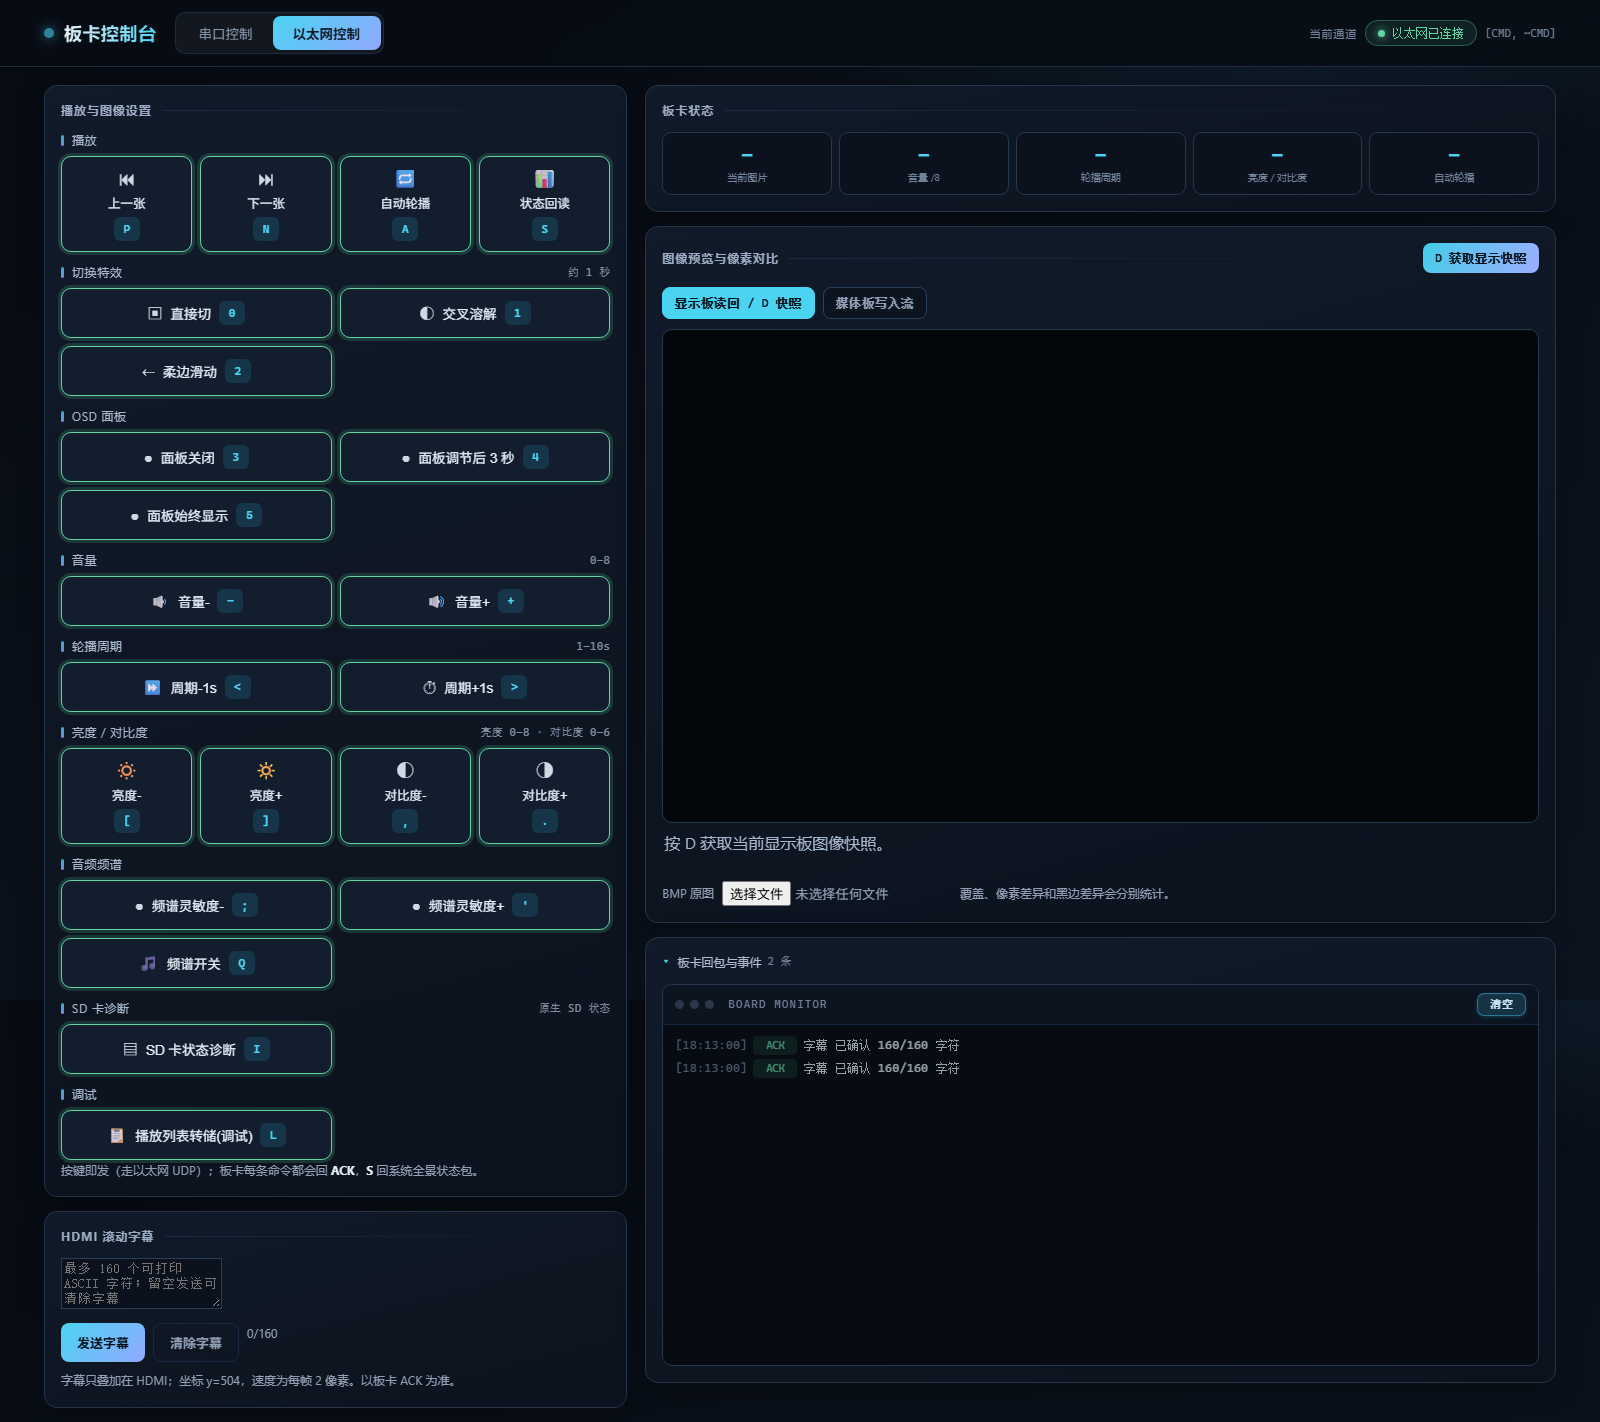
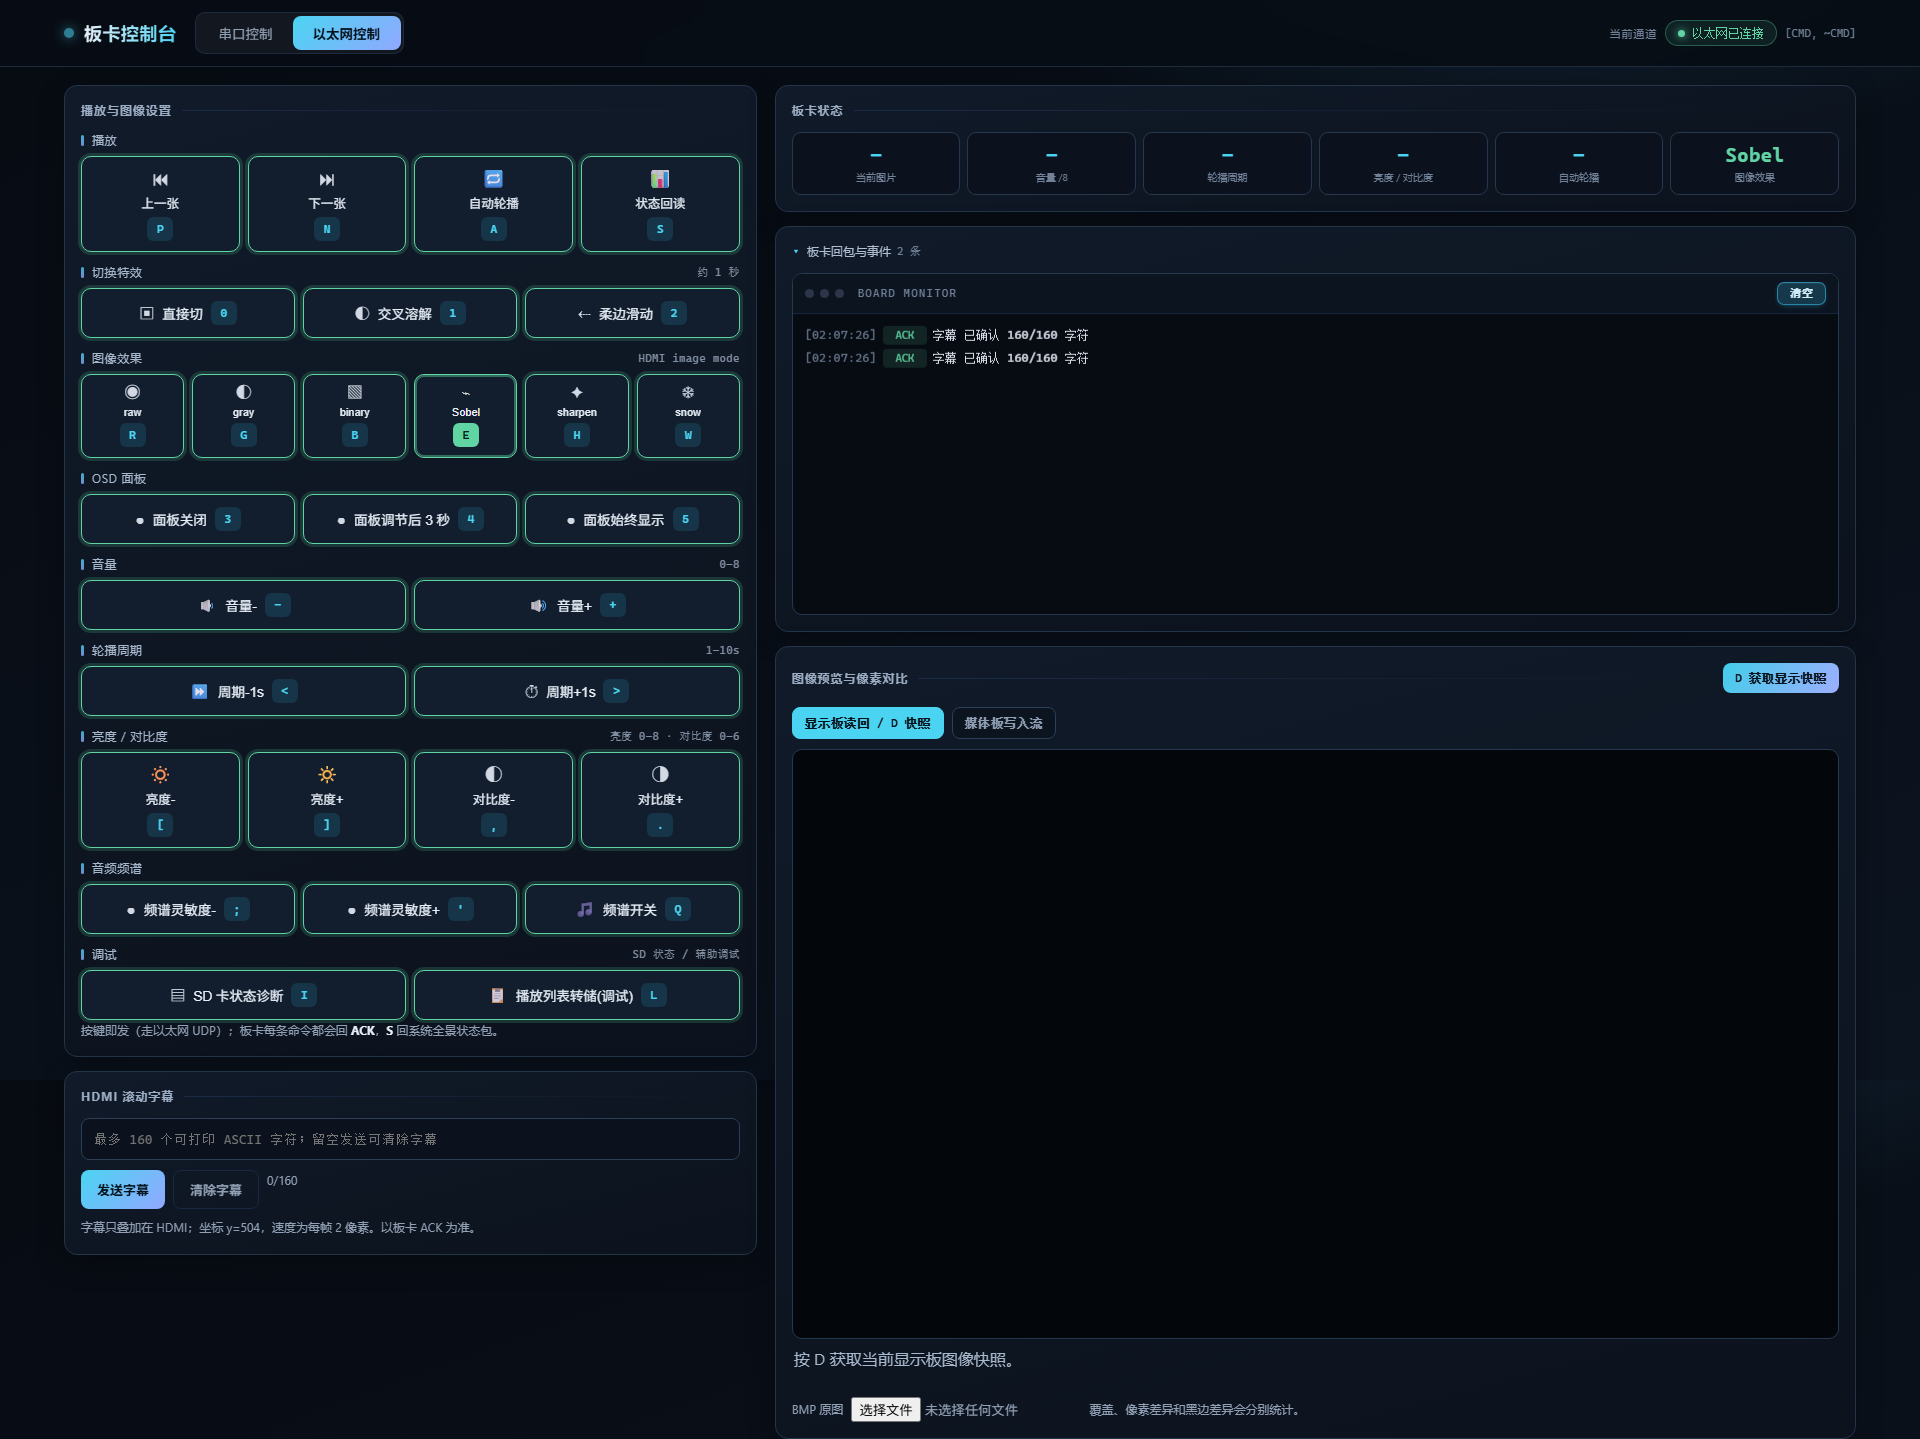
双板 V2 前端与 HC-08 命令文档
- 宽屏布局、调试分组与字幕输入优化
- 补充 HC-08 CMD/~CMD 控制字节表

diff --git a/scripts/web_console/templates/index.html b/scripts/web_console/templates/index.html
@@ -310,7 +310,7 @@
     --bg0:#070b12; --bg1:#0c1420; --panel:#101a28; --line:#24354a;
     --fg:#e7eef8; --dim:#91a0b4; --faint:#718198;
     --acc:#4bd4f2; --acc2:#91a8ff; --ok:#61d4a4; --err:#ff8585; --warn:#f4cc7a;
-    --mw:1560px;
+    --mw:1840px;
   }
   body { background:radial-gradient(1000px 500px at 80% -15%,#143044 0,transparent 65%),
          linear-gradient(160deg,var(--bg0),var(--bg1)); }
@@ -329,13 +329,23 @@
   .btns button { min-height:42px; background:#121e2d; border-color:#26384e; }
   .btns button:hover:not(:disabled) { background:#173044; }
   .btns.q4 button { min-height:68px; }
-  .metrics { gap:7px; }
+  .metrics { grid-template-columns:repeat(6,minmax(0,1fr)); gap:7px; }
+  .btns.q3 { grid-template-columns:repeat(3,minmax(0,1fr)); }
+  .btns.q6 { grid-template-columns:repeat(6,minmax(0,1fr)); }
+  .btns.q6 button { flex-direction:column; gap:5px; padding:10px 4px; min-height:68px; font-size:11px; }
+  .btns.q6 .ico { font-size:16px; }
   .m { background:#0b121d; border-color:#26384e; padding:10px 3px; }
   .m .v { font-size:20px; }
   .conn select,.conn input,textarea { background:#0b121d !important; border-color:#2b3e55 !important; }
+  #subtitleText {
+    display:block; width:100%; min-width:0; height:42px; margin:0;
+    padding:9px 12px; border:1px solid #2b3e55; border-radius:8px;
+    background:#0b121d; color:var(--fg); font:13px var(--mono);
+  }
+  #subtitleText:focus { outline:none; border-color:var(--acc); }
   .term { border-color:#26384e; background:#070b12; }
   .termbar { background:#0c1420; }
-  .log { height:min(38vh,340px); }
+  .log { height:min(30vh,300px); }
   details.card > summary { margin:0; padding:0; color:#afbdd0; }
   details.card[open] > summary { margin-bottom:14px; }
   details.card > summary::before { color:var(--acc); }
@@ -365,6 +375,15 @@
   @media (max-width:1050px) {
     main { grid-template-columns:minmax(290px,.9fr) minmax(0,1.1fr); padding:0 16px; gap:14px; }
   }
+  @media (max-width:1600px) {
+    .btns.q6 { grid-template-columns:repeat(3,minmax(0,1fr)); }
+  }
+  @media (max-width:1200px) {
+    .metrics { grid-template-columns:repeat(3,minmax(0,1fr)); }
+  }
+  @media (min-width:2200px) {
+    :root { --mw:2000px; }
+  }
   @media (max-width:800px) {
     main { width:100%; grid-template-columns:minmax(0,1fr); padding:0 12px; }
     .hwrap { padding:10px 12px; }
@@ -384,7 +403,7 @@
     .top-status { width:100%; }
     main > div,.card,.grp,.btns,.frame-wrap { min-width:0; width:100%; }
     .metrics { grid-template-columns:repeat(2,minmax(0,1fr)); }
-    .btns,.btns.q4 { width:100%; grid-template-columns:repeat(2,minmax(0,1fr)); }
+    .btns,.btns.q3,.btns.q4,.btns.q6 { width:100%; grid-template-columns:repeat(2,minmax(0,1fr)); }
     .btns button { min-width:0; white-space:normal; }
     .preview-tabs button { flex:1; min-width:0; white-space:normal; }
     .preview-head { align-items:flex-start; flex-wrap:wrap; }
@@ -425,8 +444,7 @@
 
     <section class="card" id="subtitleCard">
       <h2>HDMI 滚动字幕</h2>
-      <textarea id="subtitleText" maxlength="160" rows="3"
-        placeholder="最多 160 个可打印 ASCII 字符；留空发送可清除字幕"></textarea>
+      <input type="text" id="subtitleText" maxlength="160" autocomplete="off" spellcheck="false" placeholder="最多 160 个可打印 ASCII 字符；留空发送可清除字幕">
       <div class="conn" style="margin-top:10px">
         <button class="primary" id="btnSubtitle">发送字幕</button>
         <button class="ghost" id="btnSubtitleClear">清除字幕</button>
@@ -481,6 +499,20 @@
       </div>
     </section>
 
+
+    <details class="card log-card" id="logDetails" open>
+      <summary>板卡回包与事件 <span class="sub" id="cnt">0 条</span></summary>
+      <div class="term">
+        <div class="termbar">
+          <span class="d"></span><span class="d"></span><span class="d"></span>
+          <span class="t" id="logTitle">BOARD MONITOR</span>
+          <span class="spacer"></span>
+          <button id="btnClear" disabled>清空</button>
+        </div>
+        <div class="log" id="log"></div>
+      </div>
+    </details>
+
     <section class="card" id="frameCard">
       <div class="preview-head">
         <h2>图像预览与像素对比</h2>
@@ -509,18 +541,6 @@
       </div>
     </section>
 
-    <details class="card log-card" id="logDetails" open>
-      <summary>板卡回包与事件 <span class="sub" id="cnt">0 条</span></summary>
-      <div class="term">
-        <div class="termbar">
-          <span class="d"></span><span class="d"></span><span class="d"></span>
-          <span class="t" id="logTitle">BOARD MONITOR</span>
-          <span class="spacer"></span>
-          <button id="btnClear" disabled>清空</button>
-        </div>
-        <div class="log" id="log"></div>
-      </div>
-    </details>
   </div>
 </main>
 
@@ -542,8 +562,9 @@ const ICON = {n:"⏭", p:"⏮", a:"🔁", s:"📊", "+":"🔊", "-":"🔉",
               "q":"🎵", "i":"▤", "l":"📋", "0":"▣", "1":"◐", "2":"⇠"};
 Object.assign(ICON, {r:"\u25c9", g:"\u25d0", b:"\u25a7", e:"\u2301", h:"\u2726", w:"\u2744"});
 const RANGE = {"播放":"", "切换特效":"约 1 秒", "音量":"0–8", "轮播周期":"1–10s",
-               "亮度 / 对比度":"亮度 0–8 · 对比度 0–6", "SD 卡诊断":"原生 SD 状态"};
+               "亮度 / 对比度":"亮度 0–8 · 对比度 0–6"};
 RANGE["\u56fe\u50cf\u6548\u679c"] = "HDMI image mode";
+RANGE["\u8c03\u8bd5"] = "SD 状态 / 辅助调试";
 
 /* ---------- toast ---------- */
 let toastT = null;
@@ -640,17 +661,19 @@ async function buildPad(){
   d.groups.forEach(g => {
     const wrap = document.createElement("div");
     wrap.className = "grp";
-    const q4 = g.keys.length >= 4;
+    const q3 = g.keys.length === 3;
+    const q4 = g.keys.length >= 4 && g.keys.length < 6;
+    const q6 = g.keys.length >= 6;
     wrap.innerHTML = `<div class="grp-t"><span class="bar"></span>${g.name}`
       + `<span class="rg">${RANGE[g.name] || ""}</span></div>`;
     const box = document.createElement("div");
-    box.className = "btns" + (q4 ? " q4" : "");
+    box.className = "btns" + (q6 ? " q6" : q4 ? " q4" : q3 ? " q3" : "");
     g.keys.forEach(k => {
       const label = (d.keys.find(x => x.key === k) || {}).label || k;
       const b = document.createElement("button");
       b.dataset.k = k; b.disabled = !connected;
       b.title = label;
-      b.innerHTML = q4
+      b.innerHTML = (q4 || q6)
         ? `<span class="ico">${ICON[k] || "●"}</span><span>${label}</span><span class="key">${k.toUpperCase()}</span>`
         : `<span class="ico">${ICON[k] || "●"}</span><span>${label}</span><span class="key">${k.toUpperCase()}</span>`;
       b.onclick = () => sendKey(k);
@@ -671,13 +694,13 @@ function fallbackPad(){   // /api/keys 不可用时退化为静态面板
         <button data-k="s"><span class="ico">📊</span><span>状态回读</span><span class="key">S</span></button>
        </div></div>
      <div class="grp"><div class="grp-t"><span class="bar"></span>切换特效</div>
-       <div class="btns">
+       <div class="btns q3">
          <button data-k="0"><span class="ico">▣</span><span>直接切</span><span class="key">0</span></button>
          <button data-k="1"><span class="ico">◐</span><span>交叉溶解</span><span class="key">1</span></button>
          <button data-k="2"><span class="ico">⇠</span><span>柔边滑动</span><span class="key">2</span></button>
        </div></div>
      <div class="grp"><div class="grp-t"><span class="bar"></span>OSD 面板</div>
-      <div class="btns">
+      <div class="btns q3">
         <button data-k="3"><span class="ico">⊘</span><span>关闭</span><span class="key">3</span></button>
         <button data-k="4"><span class="ico">◷</span><span>显示 3 秒</span><span class="key">4</span></button>
         <button data-k="5"><span class="ico">▤</span><span>常显</span><span class="key">5</span></button>
@@ -700,18 +723,18 @@ function fallbackPad(){   // /api/keys 不可用时退化为静态面板
         <button data-k="."><span class="ico">◑</span><span>对比度 +</span><span class="key">.</span></button>
       </div></div>
     <div class="grp"><div class="grp-t"><span class="bar"></span>音频频谱<span class="rg">底部 16 柱</span></div>
-      <div class="btns">
+      <div class="btns q3">
         <button data-k="q"><span class="ico">🎵</span><span>频谱 开/关</span><span class="key">Q</span></button>
         <button data-k=";"><span class="ico">▼</span><span>灵敏度 -</span><span class="key">;</span></button>
         <button data-k="'"><span class="ico">▲</span><span>灵敏度 +</span><span class="key">'</span></button>
       </div></div>
-    <div class="grp"><div class="grp-t"><span class="bar"></span>SD 卡诊断</div>
+    <div class="grp"><div class="grp-t"><span class="bar"></span>调试</div>
       <div class="btns">
         <button data-k="i"><span class="ico">▤</span><span>查询卡状态</span><span class="key">I</span></button>
         <button data-k="l"><span class="ico">📋</span><span>列表转储</span><span class="key">L</span></button>
       </div></div>`;
   host.insertAdjacentHTML("beforeend", `<div class="grp"><div class="grp-t"><span class="bar"></span>CV image effect</div>
-    <div class="btns">
+    <div class="btns q6">
       <button data-k="r"><span class="ico">◉</span><span>Raw</span><span class="key">R</span></button>
       <button data-k="g"><span class="ico">◐</span><span>Gray</span><span class="key">G</span></button>
       <button data-k="b"><span class="ico">◧</span><span>Binary</span><span class="key">B</span></button>

diff --git a/scripts/web_console/app.py b/scripts/web_console/app.py
@@ -999,8 +999,7 @@ def api_keys():
               ("轮播周期", ["<", ">"]),
               ("亮度 / 对比度", ["[", "]", ",", "."]),
               ("音频频谱", [";", "'", "q"]),
-              ("SD 卡诊断", ["i"]),
-              ("调试", ["l"])]
+              ("调试", ["i", "l"])]
     groups.insert(2, ("\u56fe\u50cf\u6548\u679c", ["r", "g", "b", "e", "h", "w"]))
     return jsonify({"keys": [{"key": k, "label": HELP[k]} for k in order],
                     "groups": [{"name": n, "keys": ks} for n, ks in groups]})

diff --git a/scripts/web_console/test_console_protocol.py b/scripts/web_console/test_console_protocol.py
@@ -62,7 +62,7 @@ class ConsoleProtocolTests(unittest.TestCase):
         groups = {group["name"]: group["keys"] for group in result["groups"]}
         self.assertIn("d", keys)  # D is a dedicated button beside the preview.
         self.assertIn("图像效果", groups)
-        self.assertIn("i", groups["SD 卡诊断"])
+        self.assertEqual(set(groups["调试"]), {"i", "l"})
 
 
 if __name__ == "__main__":

diff --git a/docs/hc08_control_commands.md b/docs/hc08_control_commands.md
@@ -1,0 +1,77 @@
+# HC-08 / UART 命令字节表
+
+## 发送格式
+
+已连接的 HC-08 进入串口透传后，手机发出的数据会从 UART TXD 原样送到 FPGA RX。正式媒体固件不是收到一个字节就执行命令，而是等待两字节校验帧：
+
+```text
+CMD, ~CMD
+```
+
+`~CMD` 是 CMD 按位取反，也就是 `CMD XOR 0xFF`。两字节之间不要插入 CR/LF。UART 参数为 9600 baud、8N1。HC-08 连接后进入串口透传模式，参数依据[官方 HC-08 V3.1 手册](https://www.hc01.com/downloads/HC-08V3.1.pdf)。
+
+手机终端建议用 HEX / raw byte 模式，按表格发送两个字节。例如 `4E B1`。TEXT 模式输入 `N` 只发送一个 ASCII 字节 `4E`，生产固件会继续等待校验字节，不会立刻执行；输入文本 `4E` 则会发两个 ASCII 字节 `34 45`，不是单个 HEX 字节 `4E`。
+
+桌面独立测试项目 `hc08_hex_probe` 的最小探针不做 `CMD, ~CMD` 校验，只显示每个有效 UART 字节；它用于确认手机到 FPGA 的原始数据链路。下面的命令帧表对应本仓库的生产媒体固件。
+
+## 常用控制命令
+
+| 手机按键/含义 | CMD | 完整发送帧 | 作用 |
+|---|---:|---:|---|
+| N | `4E` | `4E B1` | 下一张 |
+| P | `50` | `50 AF` | 上一张 |
+| A | `41` | `41 BE` | 自动轮播开关 |
+| S | `53` | `53 AC` | 请求状态 |
+| + | `2B` | `2B D4` | 音量增加 |
+| - | `2D` | `2D D2` | 音量降低 |
+| ] | `5D` | `5D A2` | 亮度增加 |
+| [ | `5B` | `5B A4` | 亮度降低 |
+| . | `2E` | `2E D1` | 对比度增加 |
+| , | `2C` | `2C D3` | 对比度降低 |
+| > | `3E` | `3E C1` | 自动轮播间隔增加 1 秒 |
+| < | `3C` | `3C C3` | 自动轮播间隔减少 1 秒 |
+
+## 切图特效、OSD 与图像效果
+
+| 按键 | CMD | 完整发送帧 | 作用 |
+|---|---:|---:|---|
+| 0 | `30` | `30 CF` | 直接切图 |
+| 1 | `31` | `31 CE` | 交叉淡入淡出 |
+| 2 | `32` | `32 CD` | 柔边滑动替换 |
+| 3 | `33` | `33 CC` | 关闭 OSD |
+| 4 | `34` | `34 CB` | 调整后显示 OSD 3 秒 |
+| 5 | `35` | `35 CA` | 始终显示 OSD |
+| R | `52` | `52 AD` | 原图 |
+| G | `47` | `47 B8` | 灰度 |
+| B | `42` | `42 BD` | 二值化 |
+| E | `45` | `45 BA` | Sobel 梯度 |
+| H | `48` | `48 B7` | 锐化 |
+| W | `57` | `57 A8` | 雪花 |
+
+## 音频频谱
+
+| 按键 | CMD | 完整发送帧 | 作用 |
+|---|---:|---:|---|
+| Q | `51` | `51 AE` | 频谱开关 |
+| ' | `27` | `27 D8` | 频谱灵敏度增加 |
+| ; | `3B` | `3B C4` | 频谱灵敏度降低 |
+
+灵敏度范围为 0 到 3；音量范围为 0 到 8；亮度范围为 0 到 8；对比度范围为 0 到 6。
+
+## 状态与调试命令
+
+| 按键 | CMD | 完整发送帧 | 说明 |
+|---|---:|---:|---|
+| I | `49` | `49 B6` | 查询 SD 状态 |
+| D | `44` | `44 BB` | 调试用图像探针/快照命令；不作为日常媒体控制 |
+| L | `4C` | `4C B3` | 旧版诊断命令；当前链路不提供常规有效响应 |
+
+网页 D 快照和板间 `0x0040` SET / `0x0041` ACK 是另一层控制路径，不要把它们与这里的 UART 命令字节混淆。比如 `41 BE` 是 UART 的自动轮播命令帧；`0x0041` 是板间 ACK 包类型。
+
+## 快速验证
+
+1. 在 HEX 模式发送 `41 BE`，自动轮播应开/关一次。
+2. 发送 `4E B1`，应执行下一张。
+3. 若重新下载桌面独立项目 `hc08_hex_probe` 的测试 bit，用 TEXT 模式发送 `N`，数码管右侧显示 `4E`，字节计数加一；这是原始接收测试，不代表生产命令帧已经完整。
+
+生产代码来源：`board_media/user_source/hdl_source/uart_link.v` 的两字节反码帧解析、`media_control_core.v` 的命令映射，以及 `docs/media_link_protocol.md` 的 PC V1 命令表。
